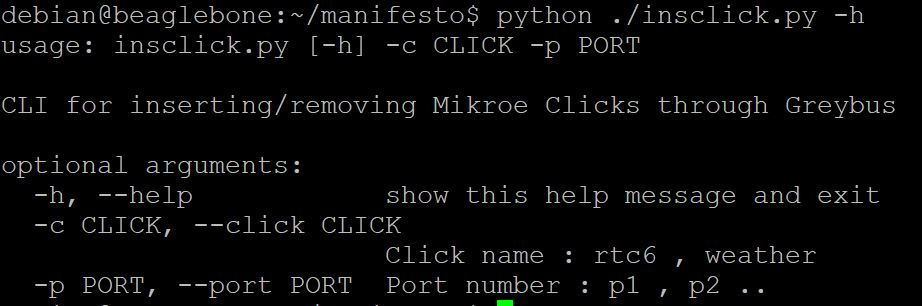
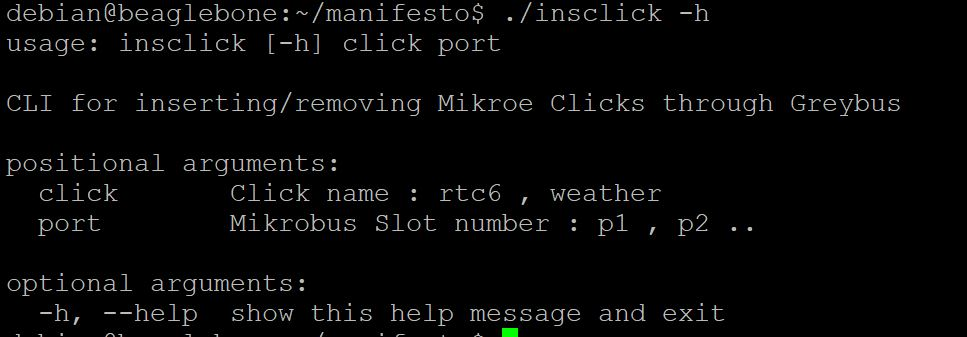
fix incorrect/outdated insclick cli instructions

diff --git a/weather.html b/weather.html
@@ -123,16 +123,16 @@
 
 <p> Now Connect the Click Board to the corresponding slot and then using the insclick CLI the click can be easily interfaced</p>
 
-<pre><code>sudo python ./insclick.py -c weather -p p1</code></pre>
+<pre><code>sudo python ./insclick weather p1</code></pre>
 <p>The Command Line Utility Usage is : </p>
 <img src="images/post/clickusage.JPG" alt="">
 
-<p>Here the argument -p corresponds to the slot in which the click is connected , the PocketBeagle Mikrobus position 1 and Beaglebone Mikrobus Cape Position 1 corresponds to p1,
+<p>Here the argument port corresponds to the slot in which the click is connected , the PocketBeagle Mikrobus position 1 and Beaglebone Mikrobus Cape Position 1 corresponds to p1,
         the PocketBeagle Mikrobus position 2 and Beaglebone Mikrobus Cape Position 2 corresponds to p2, p3 and p4 corresponds to the slots 3 and 4 in the Beaglebone Mikrobus Cape
         The CLI also supports g1 and g2 slots which corresponds to the I2C and UART grove ports on the Seedstudio Beaglebone Green.
 
 <br>
-The argument -c corresponds to the click name , for example `weather` `rtc6` etc.
+The argument click corresponds to the click name , for example `weather` `rtc6` etc.
 </p>
 
 <h3>Output</h3>

diff --git a/rtc.html b/rtc.html
@@ -123,16 +123,16 @@
 
 <p> Now Connect the Click Board to the corresponding slot and then using the insclick CLI the click can be easily interfaced</p>
 
-<pre><code>sudo python ./insclick.py -c rtc6 -p p1</code></pre>
+<pre><code>sudo python ./insclick rtc6 p1</code></pre>
 <p>The Command Line Utility Usage is : </p>
 <img src="images/post/clickusage.JPG" alt="">
 
-<p>Here the argument -p corresponds to the slot in which the click is connected , the PocketBeagle Mikrobus position 1 and Beaglebone Mikrobus Cape Position 1 corresponds to p1,
+<p>Here the argument `port` corresponds to the slot in which the click is connected , the PocketBeagle Mikrobus position 1 and Beaglebone Mikrobus Cape Position 1 corresponds to p1,
         the PocketBeagle Mikrobus position 2 and Beaglebone Mikrobus Cape Position 2 corresponds to p2, p3 and p4 corresponds to the slots 3 and 4 in the Beaglebone Mikrobus Cape
         The CLI also supports g1 and g2 slots which corresponds to the I2C and UART grove ports on the Seedstudio Beaglebone Green.
 
 <br>
-The argument -c corresponds to the click name , for example `rtc6` `weather` etc.
+The argument `click` corresponds to the click name , for example `rtc6` `weather` etc.
 </p>
 
 <h3>Output</h3>

diff --git a/microsd.html b/microsd.html
@@ -123,7 +123,7 @@
 
 <p> Now Connect the Click Board to the corresponding slot and then using the insclick CLI the click can be easily interfaced</p>
 
-<pre><code>sudo ./insclick.py microsd p1</code></pre>
+<pre><code>sudo ./insclick microsd p1</code></pre>
 
 <h3>Output</h3>
 

diff --git a/oledc.html b/oledc.html
@@ -120,7 +120,7 @@
 
 <p> Now Connect the Click Board to the corresponding slot and then using the insclick CLI the click can be easily interfaced</p>
 
-<pre><code>sudo ./insclick.py oledc p1</code></pre>
+<pre><code>sudo ./insclick oledc p1</code></pre>
 <h3>Output</h3>
 
 
